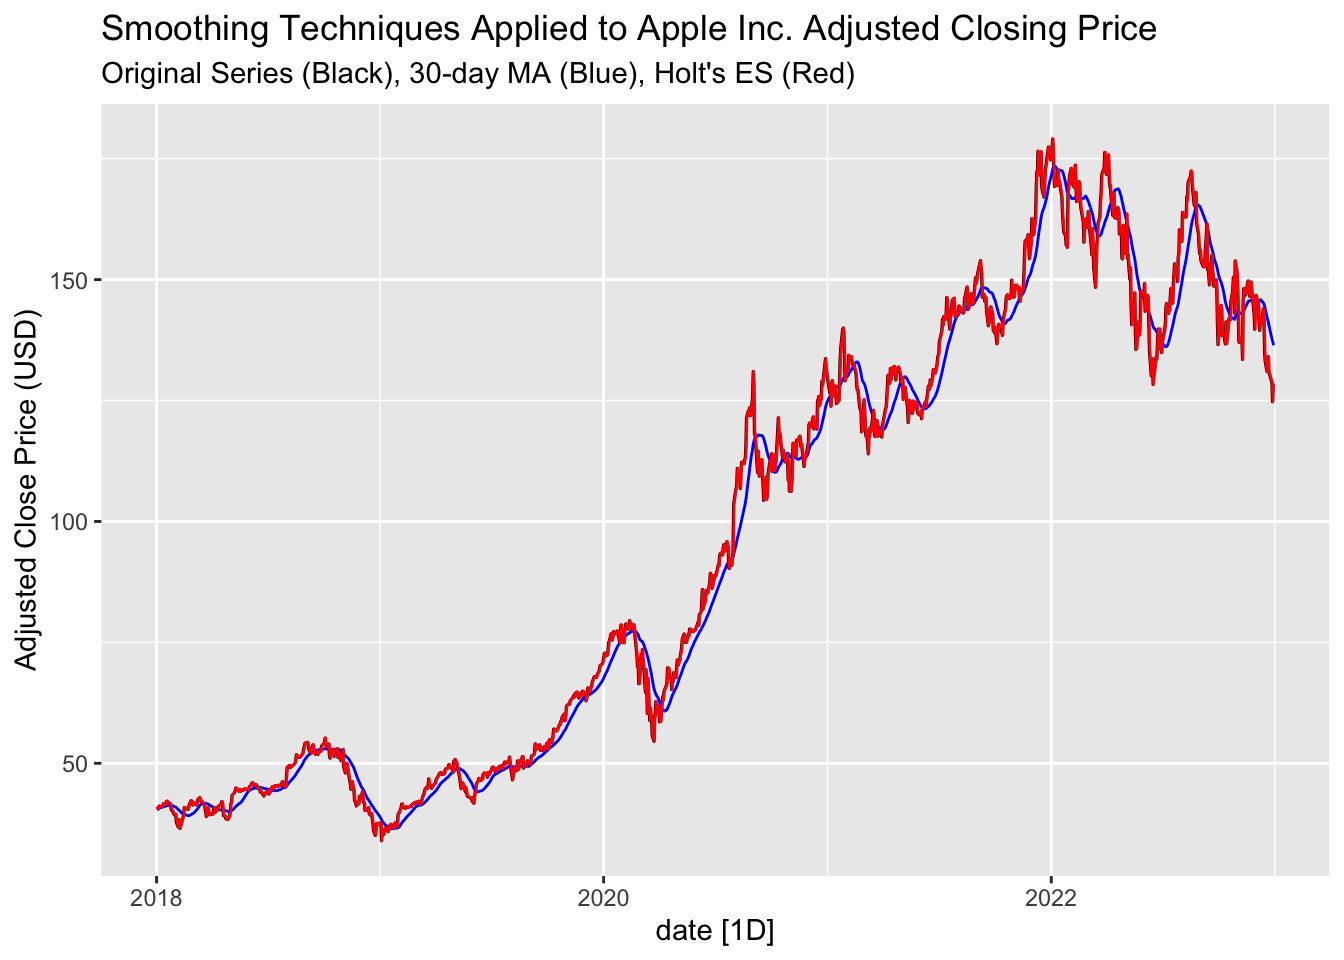
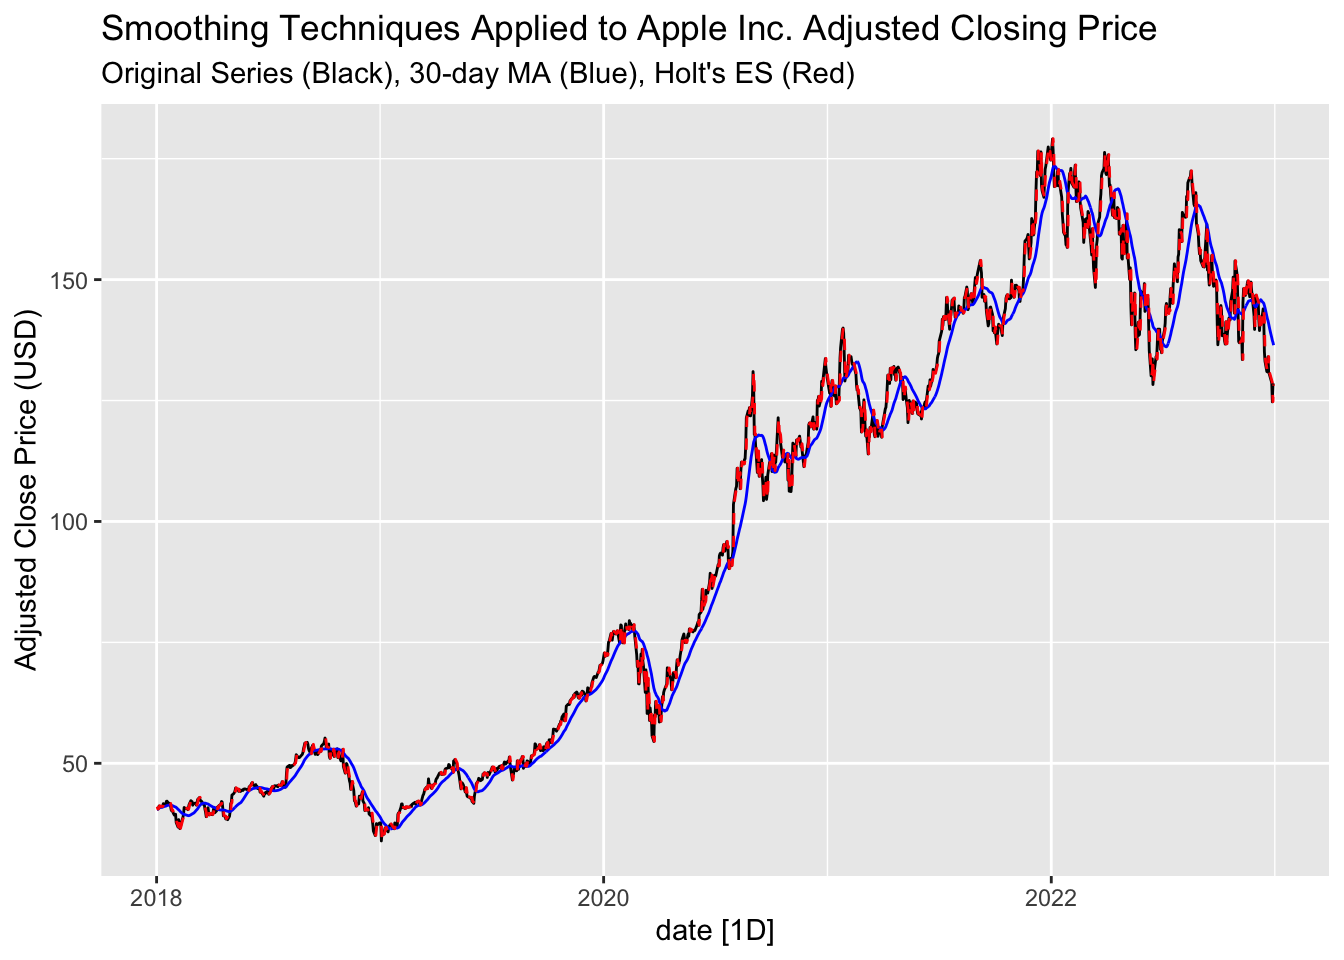
2-6-4

diff --git a/_site/activity7.html b/_site/activity7.html
@@ -365,7 +365,7 @@ y_t = T_t \times S_t \times R_t
 <span><span class="va">stock_ts</span> <span class="op"><a href="https://magrittr.tidyverse.org/reference/pipe.html">%&gt;%</a></span></span>
 <span>  <span class="fu"><a href="https://ggplot2.tidyverse.org/reference/autoplot.html">autoplot</a></span><span class="op">(</span><span class="va">Adjusted_Close</span>, color <span class="op">=</span> <span class="st">"black"</span><span class="op">)</span> <span class="op">+</span></span>
 <span>  <span class="fu"><a href="https://ggplot2.tidyverse.org/reference/autolayer.html">autolayer</a></span><span class="op">(</span><span class="va">stock_ts</span>, <span class="va">Moving_Avg</span>, color <span class="op">=</span> <span class="st">"blue"</span><span class="op">)</span> <span class="op">+</span></span>
-<span>  <span class="fu"><a href="https://ggplot2.tidyverse.org/reference/autolayer.html">autolayer</a></span><span class="op">(</span><span class="va">holt_fc</span>, <span class="va">.fitted</span>, color <span class="op">=</span> <span class="st">"red"</span><span class="op">)</span> <span class="op">+</span></span>
+<span>  <span class="fu"><a href="https://ggplot2.tidyverse.org/reference/autolayer.html">autolayer</a></span><span class="op">(</span><span class="va">holt_fc</span>, <span class="va">.fitted</span>, color <span class="op">=</span> <span class="st">"red"</span>, linetype <span class="op">=</span> <span class="st">"dashed"</span><span class="op">)</span> <span class="op">+</span></span>
 <span>  <span class="fu">labs</span><span class="op">(</span>title <span class="op">=</span> <span class="st">"Smoothing Techniques Applied to Apple Inc. Adjusted Closing Price"</span>,</span>
 <span>       subtitle <span class="op">=</span> <span class="st">"Original Series (Black), 30-day MA (Blue), Holt's ES (Red)"</span>,</span>
 <span>       y <span class="op">=</span> <span class="st">"Adjusted Close Price (USD)"</span><span class="op">)</span></span></code><button title="Copy to Clipboard" class="code-copy-button"><i class="bi"></i></button></pre></div>
